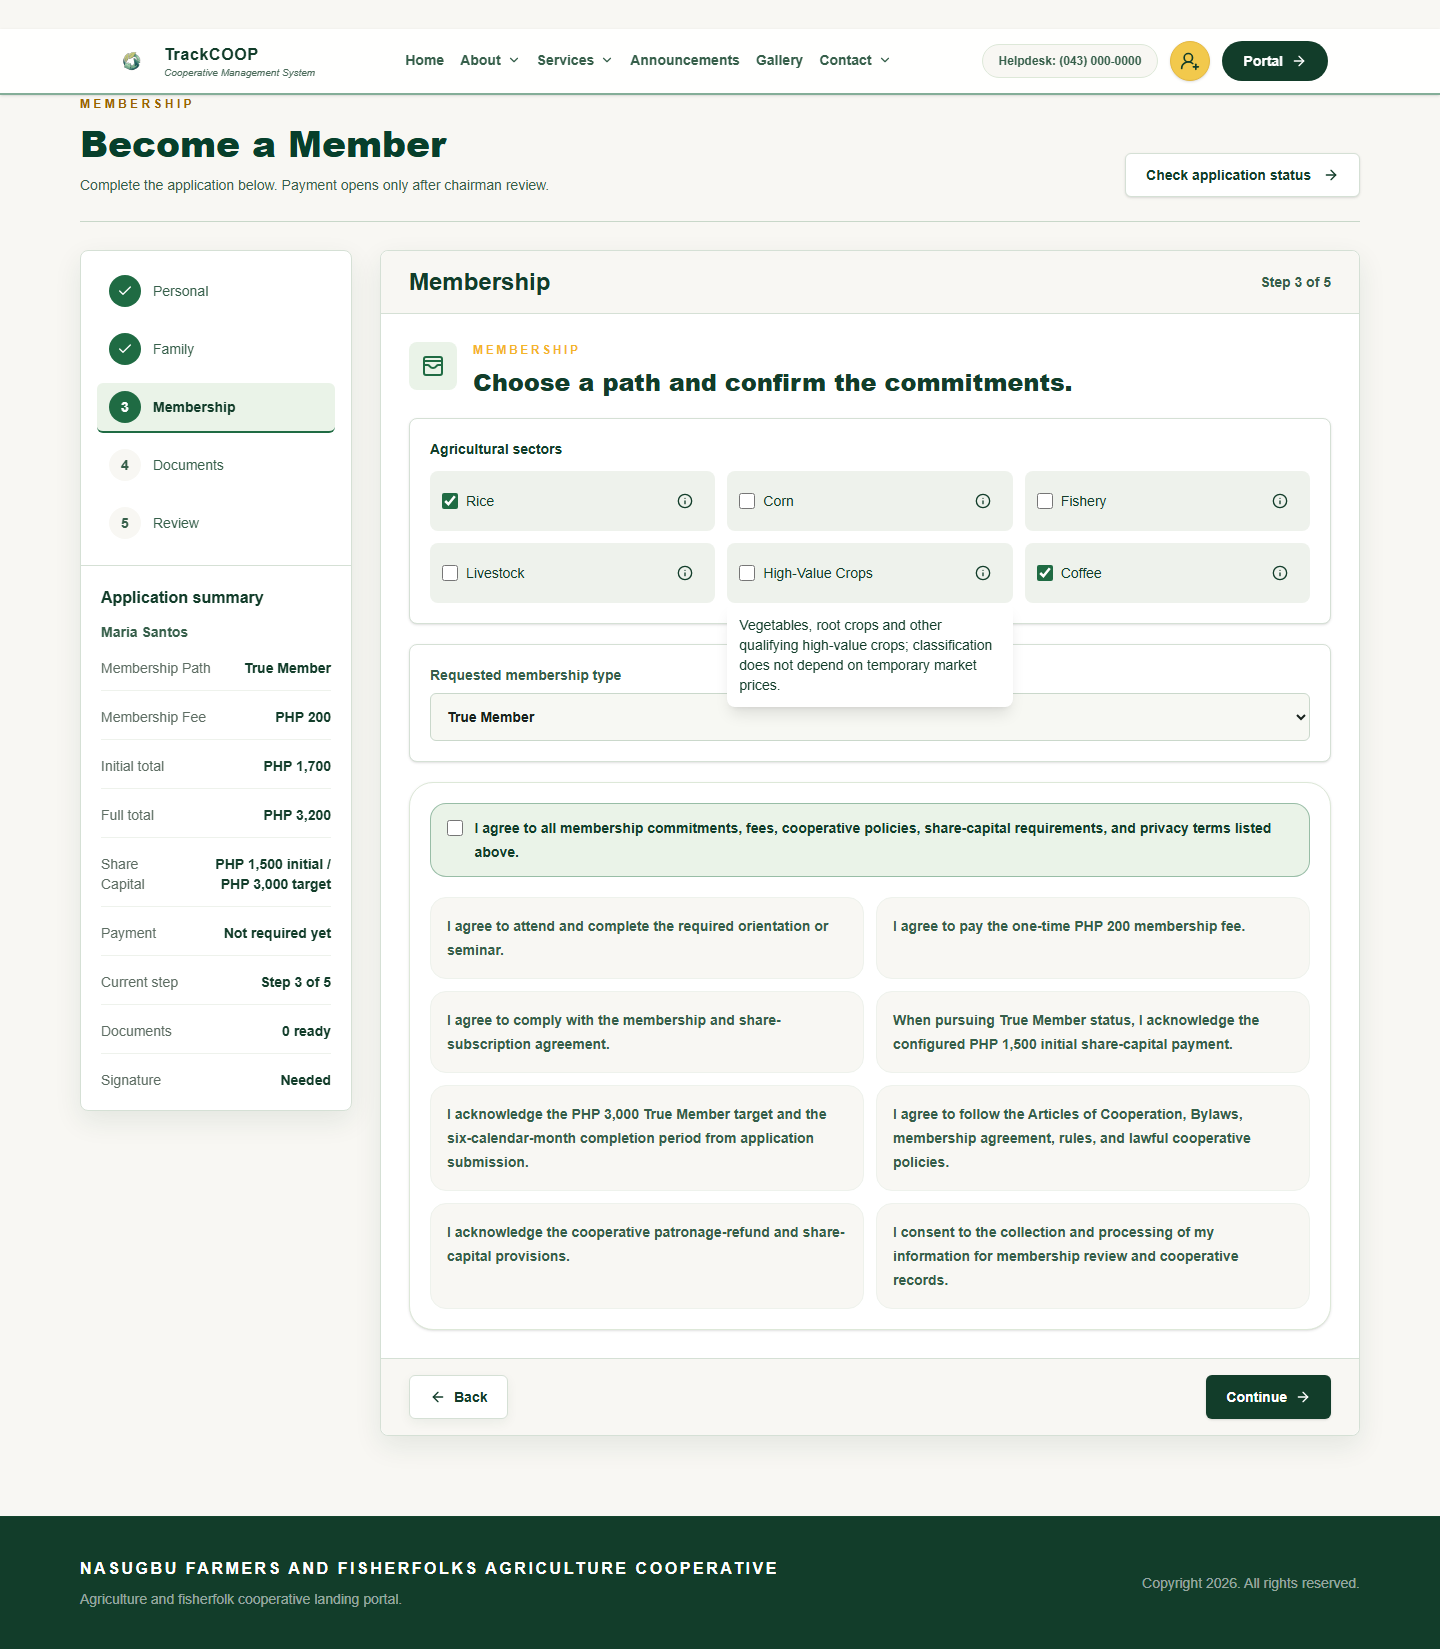
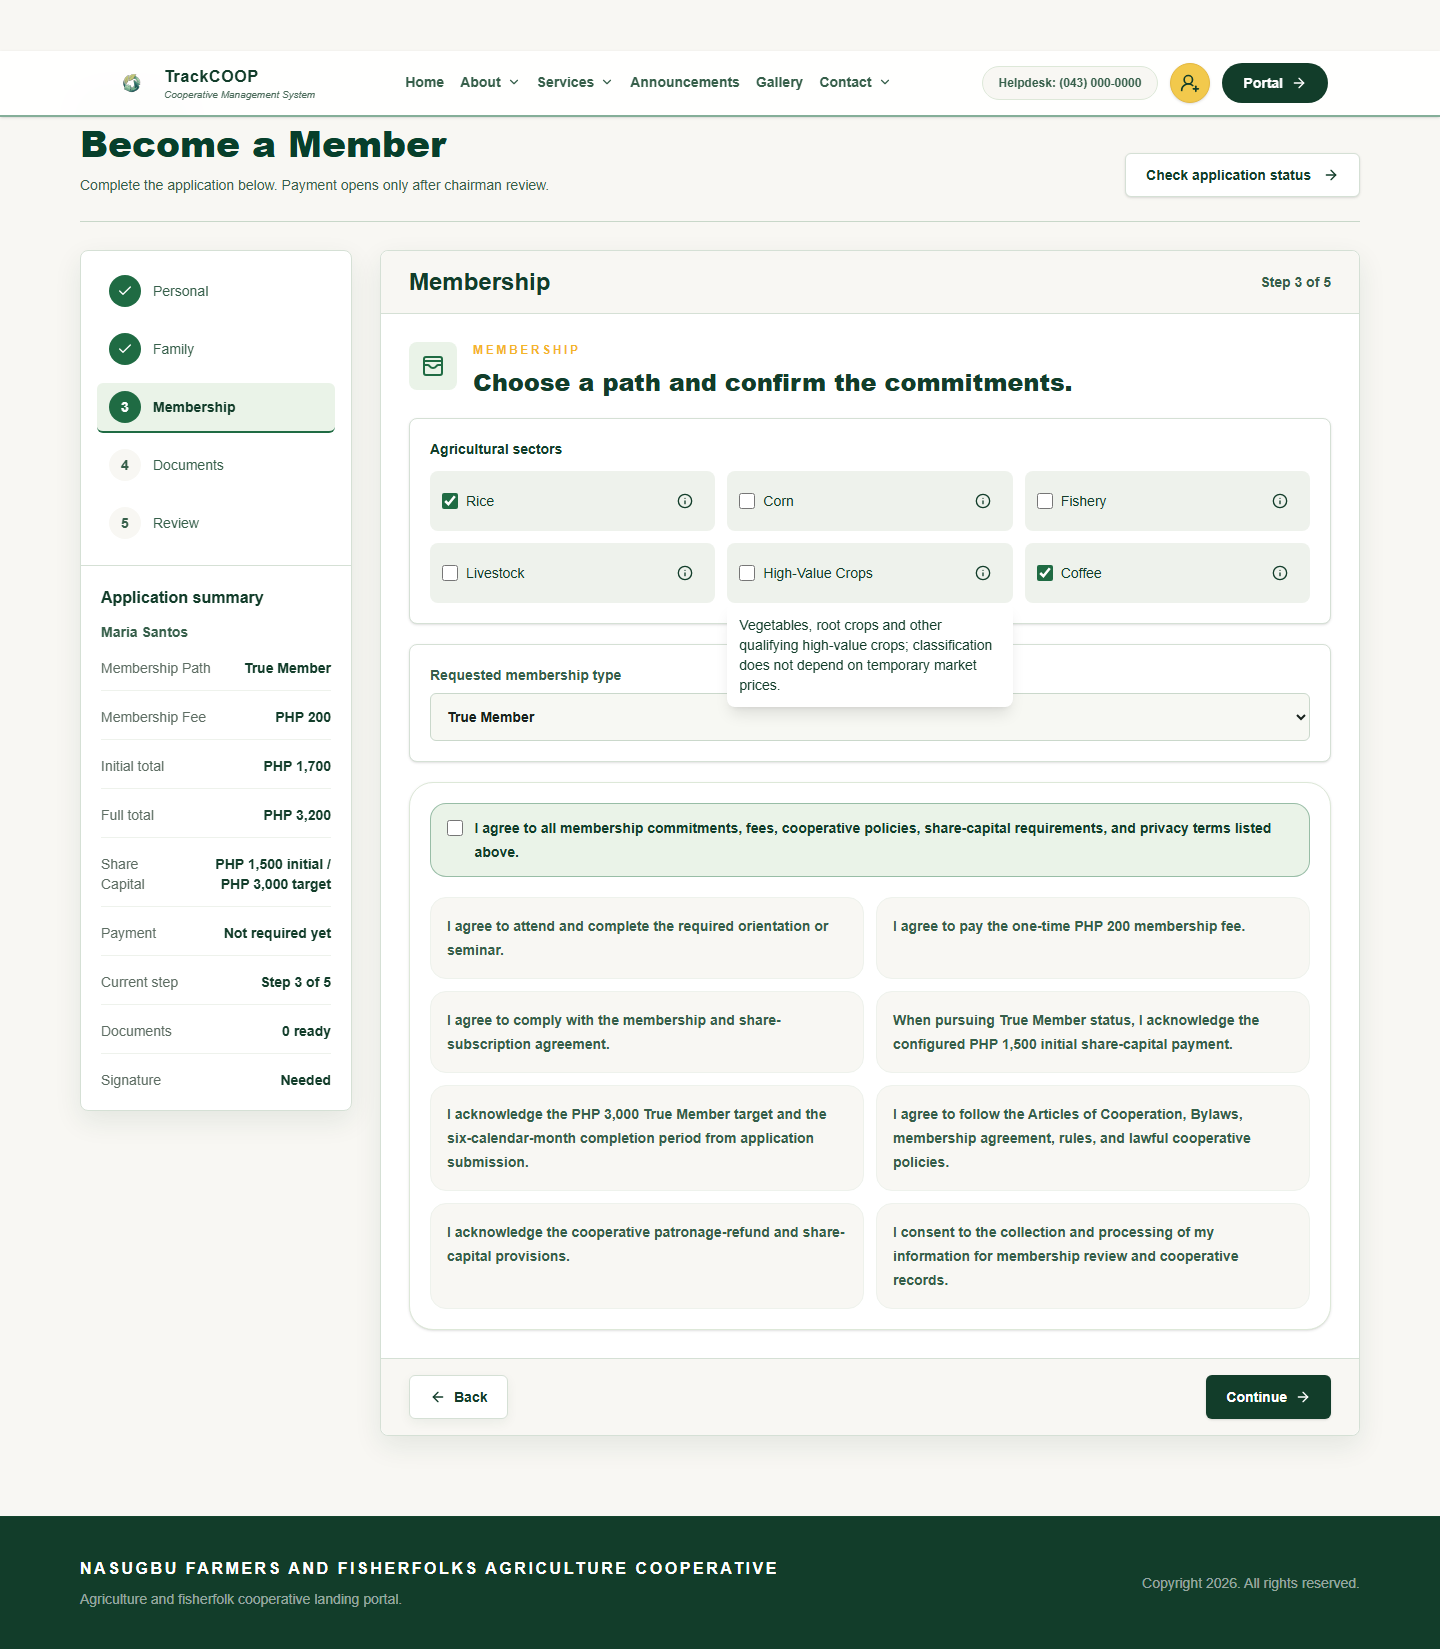
Record combined membership verification and UI previews

Changed region(s): [[0.6875, 0.0, 0.9375, 0.0619], [0.2812, 0.0309, 0.625, 0.0619], [0.0625, 0.0309, 0.2188, 0.0928]]

diff --git a/docs/membership-implementation/verification.md b/docs/membership-implementation/verification.md
@@ -6,7 +6,7 @@ Verified locally on 6 November 2026 (Asia/Manila), in the isolated membership fe
 
 - `npm ci --ignore-scripts`: passed; existing locked dependency audit findings are outside this change.
 - `npm run typecheck`: passed for frontend and API.
-- `npm run lint:ci`: passed with the original `eslint-baseline.json`, 52 existing errors / 75 warnings; no per-file/rule/severity increase.
+- `npm run lint:ci`: passed with the original `eslint-baseline.json`, 51 existing errors / 74 warnings; no per-file/rule/severity increase.
 - `npm run test:api`: 677 passed, 10 skipped, zero failed. Opt-in SQL tests are reported separately below.
 - `npm run test:paymongo-core`: 182 passed.
 - `npm run test:records`: exited successfully, but discovered zero tests; not claimed as records coverage.
@@ -41,3 +41,5 @@ The feature started at GitHub main `b905358`. Local original main remains untouc
 No merge, direct main push, production migration, credential change or deployment is authorized. A future approved PR merge may trigger existing staging workflows.
 
 The final endpoint validation review also verifies malformed sector payloads return 400 before any write. New self-service sector changes lock the member row before replacing sector relationships. Future reporting dates are rejected rather than projecting capital status.
+
+The latest main commit `ab3b2f4` (another agent’s annual-interest task) was inspected after the feature integration. A read-only three-way merge simulation reported no conflicts. Its annual-interest files are outside this PR’s diff; GitHub’s PR Quality Gate will validate the current merge combination.
